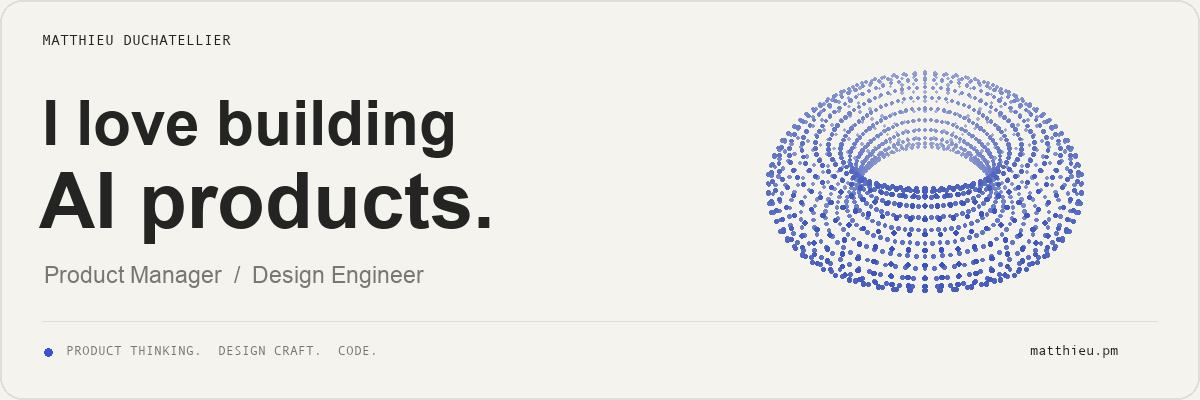
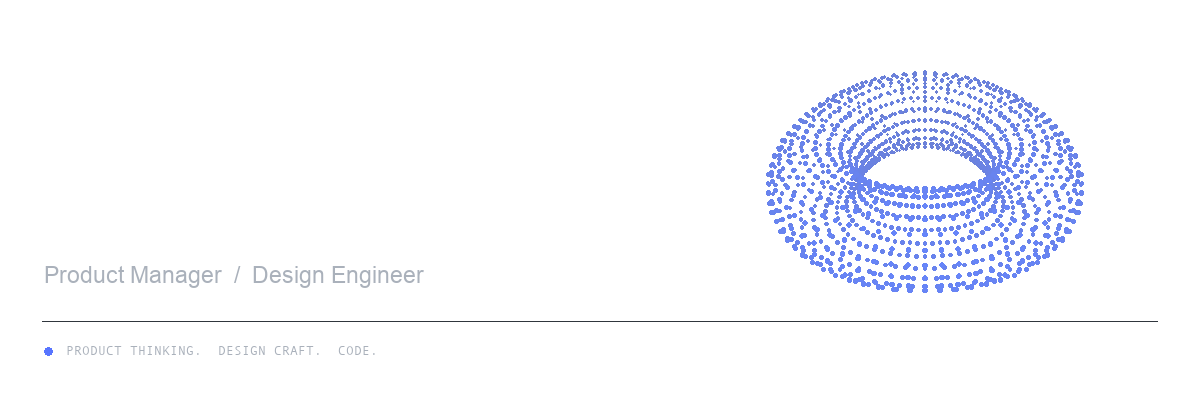
Make profile header transparent and align footer marker

diff --git a/docs/profile/generate.py b/docs/profile/generate.py
@@ -21,24 +21,31 @@ BOLD = os.environ.get("PROFILE_BOLD_FONT", "/System/Library/Fonts/Supplemental/A
 MONO = os.environ.get("PROFILE_MONO_FONT", "/System/Library/Fonts/Supplemental/Andale Mono.ttf")
 
 
-def hero():
+def hero(dark=True):
     width, height = 1200, 400
-    paper, ink, muted, blue = "#f5f3ee", "#242522", "#777971", "#3454df"
+    ink, muted, blue = ("#ffffff", "#aab1bb", "#5875ff") if dark else ("#242522", "#777971", "#3454df")
+    suffix = "" if dark else "-light"
     frames = []
     # A rotating, dotted torus: one continuous revolution, with no end-frame pause.
     for frame in range(64):
         phase = frame / 64 * math.tau
-        im = Image.new("RGB", (width, height), paper)
+        im = Image.new("RGBA", (width, height), (0, 0, 0, 0))
         d = ImageDraw.Draw(im)
-        d.rounded_rectangle((0, 0, width-1, height-1), radius=22, outline="#deddd6", width=2)
         d.text((42, 31), "MATTHIEU DUCHATELLIER", font=ImageFont.truetype(MONO, 15), fill=ink)
         d.text((42, 88), "I love building", font=ImageFont.truetype(BOLD, 62), fill=ink)
         d.text((39, 157), "AI products.", font=ImageFont.truetype(BOLD, 78), fill=ink)
         d.text((44, 262), "Product Manager  /  Design Engineer", font=ImageFont.truetype(FONT, 23), fill=muted)
-        d.line((42, 321, 1157, 321), fill="#deddd6", width=1)
-        d.ellipse((44, 348, 52, 356), fill=blue)
-        d.text((66, 343), "PRODUCT THINKING.  DESIGN CRAFT.  CODE.", font=ImageFont.truetype(MONO, 13), fill=muted)
-        d.text((1030, 342), "matthieu.pm", font=ImageFont.truetype(MONO, 14), fill=ink)
+        d.line((42, 321, 1157, 321), fill="#30363d" if dark else "#deddd6", width=1)
+        label = "PRODUCT THINKING.  DESIGN CRAFT.  CODE."
+        label_font = ImageFont.truetype(MONO, 13)
+        label_bounds = d.textbbox((0, 0), label, font=label_font)
+        label_y = 351 - (label_bounds[1] + label_bounds[3]) / 2
+        d.ellipse((44, 347, 52, 355), fill=blue)
+        d.text((66, label_y), label, font=label_font, fill=muted)
+        domain_font = ImageFont.truetype(MONO, 14)
+        domain_bounds = d.textbbox((0, 0), "matthieu.pm", font=domain_font)
+        domain_y = 351 - (domain_bounds[1] + domain_bounds[3]) / 2
+        d.text((1030, domain_y), "matthieu.pm", font=domain_font, fill=ink)
         points=[]
         for u in range(68):
             a = u / 68 * math.tau
@@ -56,12 +63,22 @@ def hero():
                 points.append((z, 925+x*s, 167+y*s, s))
         for z,x,y,s in sorted(points):
             depth=(z+160)/320
-            color=tuple(int(a+(b-a)*depth) for a,b in zip((181,190,219),(42,68,183)))
+            far, near = ((110,128,205),(102,134,255)) if dark else ((181,190,219),(42,68,183))
+            color=tuple(int(a+(b-a)*depth) for a,b in zip(far,near))
             size=1.1+max(0,depth)*1.3
             d.ellipse((x-size,y-size,x+size,y+size),fill=color)
-        frames.append(im.quantize(colors=96,method=Image.Quantize.MEDIANCUT))
-    frames[0].save(ASSETS/"hello.gif",save_all=True,append_images=frames[1:],duration=80,loop=0,optimize=True,disposal=1)
-    frames[0].convert("RGB").save(ASSETS/"hello.png")
+        if frame == 0:
+            im.save(ASSETS/f"hello{suffix}.png")
+        # Reserve index zero for transparency in every frame. Disposal=2 clears
+        # the previous sculpture before drawing its next pose on the page.
+        quantized = im.convert("RGB").quantize(colors=95, method=Image.Quantize.MEDIANCUT)
+        palette = [0, 0, 0] + quantized.getpalette()[:765]
+        quantized = quantized.point(lambda index: index + 1)
+        quantized.putpalette(palette)
+        transparent = im.getchannel("A").point(lambda alpha: 255 if alpha < 128 else 0)
+        quantized.paste(0, mask=transparent)
+        frames.append(quantized)
+    frames[0].save(ASSETS/f"hello{suffix}.gif",save_all=True,append_images=frames[1:],duration=80,loop=0,optimize=False,disposal=2,transparency=0,background=0)
 
 
 def clip(name):
@@ -73,6 +90,7 @@ def clip(name):
 
 if __name__ == "__main__":
     hero()
+    hero(dark=False)
     with ThreadPoolExecutor(max_workers=4) as pool:
         list(pool.map(clip,["carbon","forge","atrium","inspirations"]))
     for path in sorted(ASSETS.glob("*.gif")):

diff --git a/README.md b/README.md
@@ -1,5 +1,8 @@
 <a href="https://matthieu.pm">
-  <img src="docs/profile/hello.gif" alt="Matthieu Duchatellier — I love building AI products. Product Manager / Design Engineer. An animated blue point-cloud sculpture rotates beside the introduction." width="100%" />
+  <picture>
+    <source media="(prefers-color-scheme: light)" srcset="docs/profile/hello-light.gif" />
+    <img src="docs/profile/hello.gif" alt="Matthieu Duchatellier — I love building AI products. Product Manager / Design Engineer. An animated blue point-cloud sculpture rotates beside the introduction." width="100%" />
+  </picture>
 </a>
 
 <p align="center">
